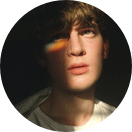
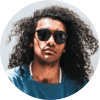
Add files via upload

diff --git a/style.css b/style.css
@@ -112,3 +112,120 @@ margin-top: 30px;
     width: 100px;
     height: 50px;
 }
+
+
+@media (max-width: 600px) {
+
+    .task2 {
+        display: flex;
+        gap: 10px;
+        justify-content: center;
+        flex-wrap: wrap;
+    }
+
+    .task2 button {
+        border: none;
+        background-color: white;
+        font-size: 14px;
+    }
+
+    .task3 {
+        margin-left: 0;
+        margin-top: 10px;
+        text-align: center;
+    }
+
+    .button1 {
+        border: none;
+        background-color: white;
+        height: 30px;
+        font-size: 16px;
+    }
+
+    .button2 {
+        background-color: white;
+        border-radius: 10px;
+        border-color: rgb(13, 13, 14);
+        font-size: 16px;
+        padding: 8px;
+    }
+
+    .img1 {
+        width: 15px;
+        height: 10px;
+        margin-top: 15px;
+        margin-right: 10px;
+    }
+
+    .img2 {
+        width: 15px;
+        height: 10px;
+        margin-top: 15px;
+        margin-right: 10px;
+    }
+
+    .button5 {
+        margin-left: 10px;
+    }
+
+    .button6 {
+        margin-left: 10px;
+    }
+
+    .img3 {
+        width: 80px;
+        height: 35px;
+        margin-top: 10px;
+    }
+
+    .mmd {
+        display: flex;
+        width: 100%;
+        height: auto;
+        justify-content: center;
+        align-items: center;
+        margin-left: 0;
+        flex-direction: column;
+        text-align: center;
+    }
+
+    .img4 {
+        width: 250px;
+        height: auto;
+        margin-left: 0;
+        margin-top: 30px;
+    }
+
+    .h1v1 {
+        font-size: 40px;
+        width: 100%;
+    }
+
+    .button7 {
+        border: none;
+        color: white;
+        background-color: black;
+        font-size: 20px;
+        border-radius: 15px;
+        width: 160px;
+        height: 45px;
+    }
+
+    .img5 {
+        display: flex;
+        gap: 10px;
+        justify-content: center;
+        margin-top: 20px;
+        flex-wrap: wrap;
+    }
+
+    .img6 {
+        width: 80px;
+        height: 25px;
+    }
+
+    .img7 {
+        width: 80px;
+        height: 40px;
+    }
+}

diff --git a/index.html b/index.html
@@ -45,6 +45,37 @@
   </div>
 </div>
 
+<!-- 
+<div>
+  <div>
+    <img class="img1" src="" alt="">
+    <button>Collections</button>
+    <button>Men</button>
+    <button>Women</button>
+    <button>About</button>
+    <button>Contact</button>
+  </div>
+  <div>
+  <div>
+    <img src="" alt="">
+    <img src="" alt="">
+    <img src="" alt="">
+    <img src="" alt="">
+    <img src="" alt="">
+  </div>
+  <div>
+  <h2>SNEAKER COMPANY</h2>
+  <h1>Fall Limited Edition Sneakers</h1>
+  <h3>these low-profile sneakers are your perfect casual wear companion.
+  featuring a durable rubber outer sole, they'll withstand everything the weather can offer.</h3>
+  <div>
+  <h1>$125.00</h1>
+  <button>50%</button>
+  </div>
+  <h1>$250.00</h1>
+  </div>
+  </div>
+</div> -->
 
 </body>
 </html>
